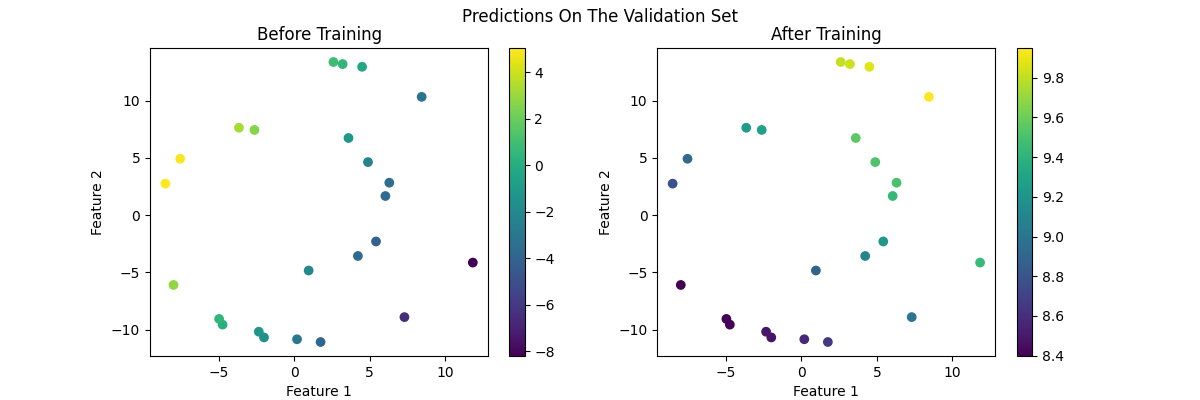
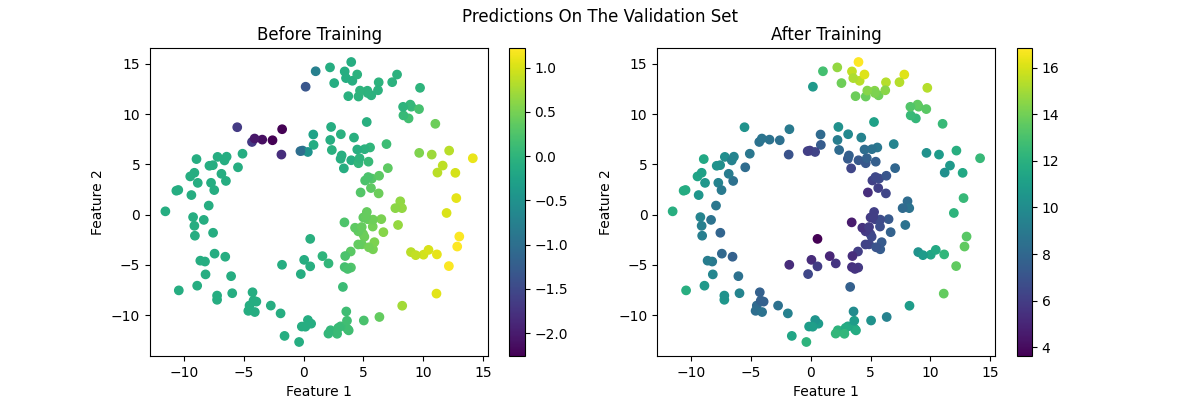
🍒 UPDATE - pictures 🍑

diff --git a/README.md b/README.md
@@ -5,7 +5,7 @@
 A C++ implementation of a feed-forward, fully-connected, multi-layer neural network for single-output regression problems, trained via Stochastic Gradient Descent (mini-batches of 1 sample) and evaluated respectively on training and validation partitions of a self-made non-linear regression dataset: a 2D projection of a Swiss Roll dataset by Scikit-Learn, whose samples are shown as color-coded by output value in the 2D feature space in the following picture.
 
 <p align="center">
-    <img src="https://github.com/MattiaSarti/toy-neural-network-in-cpp/blob/main/readme_pictures/bigger_dataset.png" alt="...loading..."  width="500"/>
+    <img src="https://github.com/MattiaSarti/toy-neural-network-in-cpp/blob/main/readme_pictures/whole_dataset.png" alt="...loading..."  width="500"/>
 </p>
 
 
